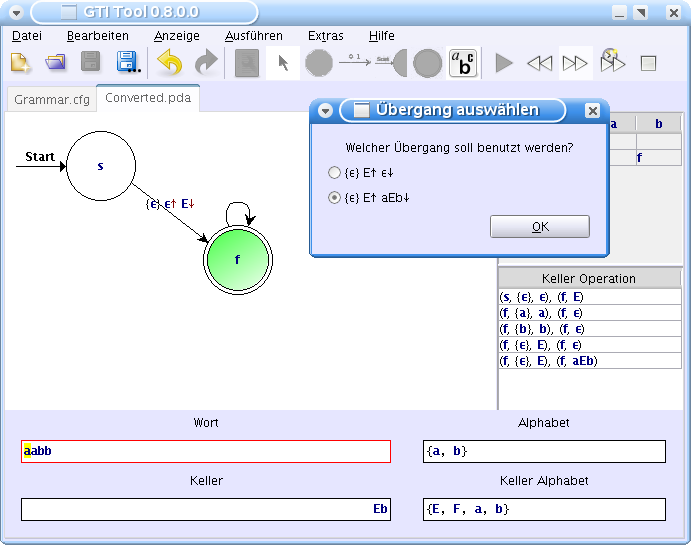
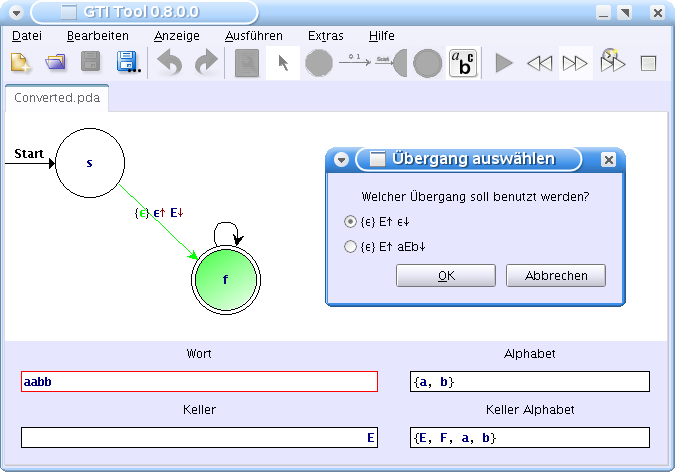
The choose transition dialog can be canceled.
git-svn-id: https://vcs.informatik.uni-siegen.de/svn/gtitool/trunk@1167 d1fb0f2a-2248-4f96-a540-7c12a6a72a62

diff --git a/de.unisiegen.gtitool.ui/source/de/unisiegen/gtitool/ui/netbeans/ChooseTransitionDialogForm.java b/de.unisiegen.gtitool.ui/source/de/unisiegen/gtitool/ui/netbeans/ChooseTransitionDialogForm.java
@@ -63,6 +63,7 @@ public class ChooseTransitionDialogForm extends JDialog implements GUIClass <Cho
         jGTILabelHeader = new de.unisiegen.gtitool.ui.swing.JGTILabel();
         jGTIPanelTransitions = new de.unisiegen.gtitool.ui.swing.JGTIPanel();
         jGTIButtonOk = new de.unisiegen.gtitool.ui.swing.JGTIButton();
+        jGTIButtonCancel = new de.unisiegen.gtitool.ui.swing.JGTIButton();
 
         setDefaultCloseOperation(javax.swing.WindowConstants.DO_NOTHING_ON_CLOSE);
         java.util.ResourceBundle bundle = java.util.ResourceBundle.getBundle("de/unisiegen/gtitool/ui/i18n/messages"); // NOI18N
@@ -80,6 +81,7 @@ public class ChooseTransitionDialogForm extends JDialog implements GUIClass <Cho
         gridBagConstraints = new java.awt.GridBagConstraints();
         gridBagConstraints.gridx = 0;
         gridBagConstraints.gridy = 0;
+        gridBagConstraints.gridwidth = 2;
         gridBagConstraints.fill = java.awt.GridBagConstraints.HORIZONTAL;
         gridBagConstraints.weightx = 1.0;
         gridBagConstraints.insets = new java.awt.Insets(16, 16, 5, 16);
@@ -87,6 +89,7 @@ public class ChooseTransitionDialogForm extends JDialog implements GUIClass <Cho
         gridBagConstraints = new java.awt.GridBagConstraints();
         gridBagConstraints.gridx = 0;
         gridBagConstraints.gridy = 1;
+        gridBagConstraints.gridwidth = 2;
         gridBagConstraints.fill = java.awt.GridBagConstraints.BOTH;
         gridBagConstraints.weightx = 1.0;
         gridBagConstraints.weighty = 1.0;
@@ -106,8 +109,22 @@ public class ChooseTransitionDialogForm extends JDialog implements GUIClass <Cho
         gridBagConstraints.gridy = 2;
         gridBagConstraints.anchor = java.awt.GridBagConstraints.EAST;
         gridBagConstraints.weightx = 1.0;
-        gridBagConstraints.insets = new java.awt.Insets(5, 16, 16, 16);
+        gridBagConstraints.insets = new java.awt.Insets(5, 16, 16, 5);
         getContentPane().add(jGTIButtonOk, gridBagConstraints);
+
+        jGTIButtonCancel.setText(bundle.getString("ChooseTransitionDialog.Cancel")); // NOI18N
+        jGTIButtonCancel.setToolTipText(bundle.getString("ChooseTransitionDialog.CancelToolTip")); // NOI18N
+        jGTIButtonCancel.addActionListener(new java.awt.event.ActionListener() {
+            public void actionPerformed(java.awt.event.ActionEvent evt) {
+                jGTIButtonCancelActionPerformed(evt);
+            }
+        });
+        gridBagConstraints = new java.awt.GridBagConstraints();
+        gridBagConstraints.gridx = 1;
+        gridBagConstraints.gridy = 2;
+        gridBagConstraints.anchor = java.awt.GridBagConstraints.EAST;
+        gridBagConstraints.insets = new java.awt.Insets(5, 5, 16, 16);
+        getContentPane().add(jGTIButtonCancel, gridBagConstraints);
 
         java.awt.Dimension screenSize = java.awt.Toolkit.getDefaultToolkit().getScreenSize();
         setBounds((screenSize.width-400)/2, (screenSize.height-300)/2, 400, 300);
@@ -121,7 +138,12 @@ public class ChooseTransitionDialogForm extends JDialog implements GUIClass <Cho
         this.logic.handleCancel();
     }//GEN-LAST:event_formWindowClosing
 
+private void jGTIButtonCancelActionPerformed(java.awt.event.ActionEvent evt) {//GEN-FIRST:event_jGTIButtonCancelActionPerformed
+        this.logic.handleCancel();
+}//GEN-LAST:event_jGTIButtonCancelActionPerformed
+
     // Variables declaration - do not modify//GEN-BEGIN:variables
+    public de.unisiegen.gtitool.ui.swing.JGTIButton jGTIButtonCancel;
     public de.unisiegen.gtitool.ui.swing.JGTIButton jGTIButtonOk;
     public de.unisiegen.gtitool.ui.swing.JGTILabel jGTILabelHeader;
     public de.unisiegen.gtitool.ui.swing.JGTIPanel jGTIPanelTransitions;

diff --git a/de.unisiegen.gtitool.ui/source/de/unisiegen/gtitool/ui/logic/ChooseTransitionDialog.java b/de.unisiegen.gtitool.ui/source/de/unisiegen/gtitool/ui/logic/ChooseTransitionDialog.java
@@ -119,6 +119,7 @@ public final class ChooseTransitionDialog implements
    */
   public final void handleCancel ()
   {
+    this.confirmed = false;
     this.gui.dispose ();
   }
 
@@ -129,8 +130,6 @@ public final class ChooseTransitionDialog implements
   public final void handleOk ()
   {
     this.confirmed = true;
-    this.gui.setVisible ( false );
-
     this.gui.dispose ();
   }
 

diff --git a/de.unisiegen.gtitool.ui/source/de/unisiegen/gtitool/ui/logic/MachinePanel.java b/de.unisiegen.gtitool.ui/source/de/unisiegen/gtitool/ui/logic/MachinePanel.java
@@ -1903,6 +1903,11 @@ public final class MachinePanel implements LogicClass < MachinePanelForm >,
             this.mainWindowForm, this.machine.getPossibleTransitions () );
         dialog.show ();
 
+        if ( !dialog.isConfirmed () )
+        {
+          return;
+        }
+
         if ( running )
         {
           startAutoStepTimer ( true );
